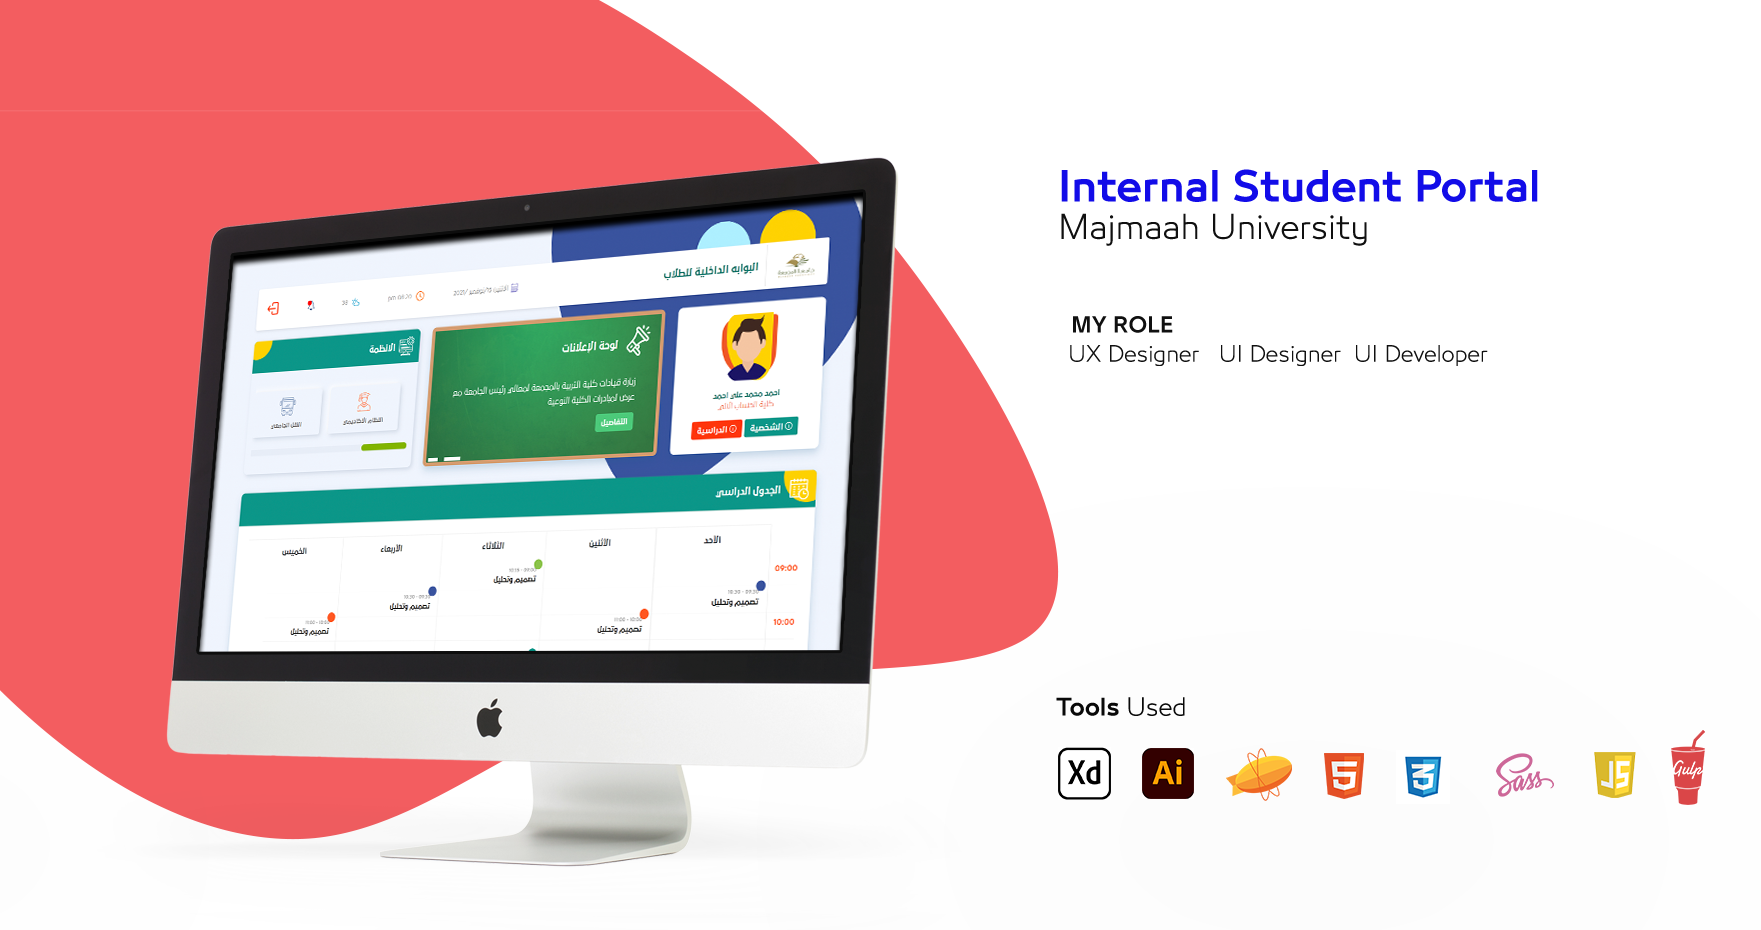
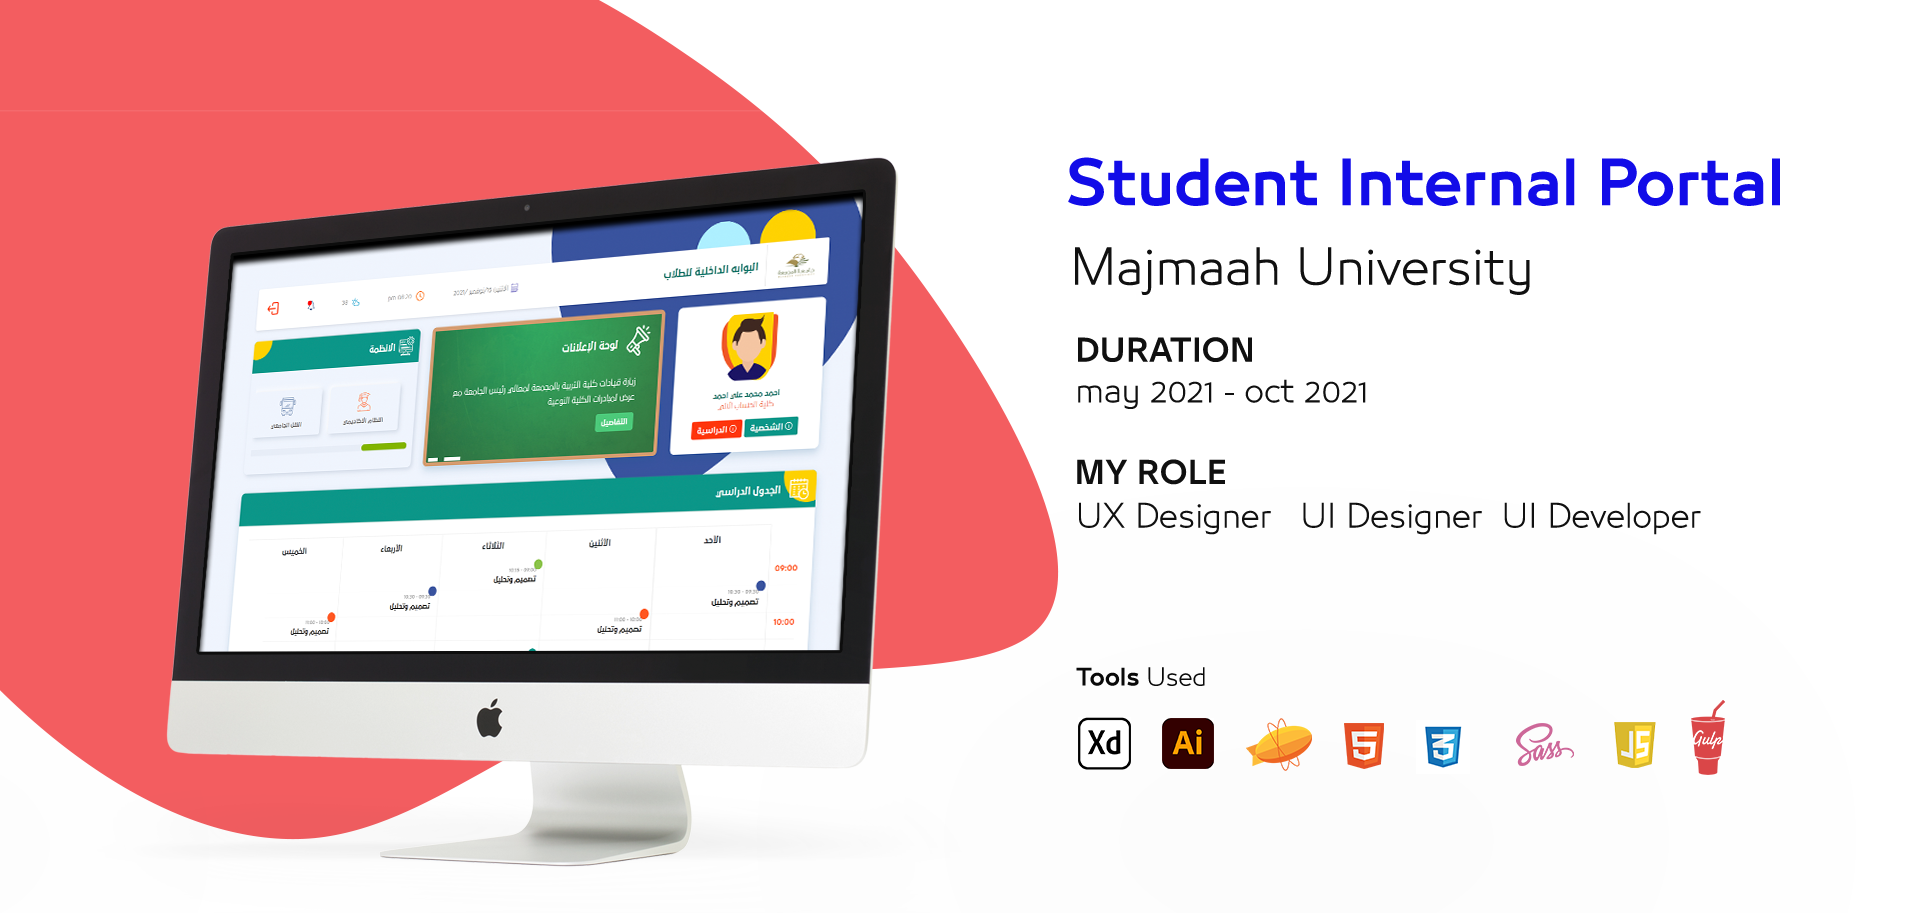
LOADER

Changed region(s): [[0.0312, 0.0, 0.937, 0.9507], [0.5622, 0.736, 0.9682, 0.8587], [0.0, 0.736, 0.0312, 0.7974]]

diff --git a/pages/CaseStudy.js b/pages/CaseStudy.js
@@ -1,6 +1,8 @@
 import Head from 'next/head'
+import Link from "next/link"
 import Image from 'next/image'
 import case1 from '../public/images/case1.png'
+import Loader from '../components/Loader';
 const CaseStudy = () => {
     return(
 
@@ -13,16 +15,33 @@ const CaseStudy = () => {
                 <meta name="description" content="UI/UX Design developer front-end developer" />
                 <link rel="icon" href="../public/favicon.ico" />
         </Head>
-
+        <Loader/>
         <div className="container">
 
         <div className="page__container project">
 
             <div className="mainpagetitle"  data-aos="fade-in" data-aos-duration="500">
-            Majmaah  Student Internal Portal
+              Student Internal Portal
             </div>
-          <div className="casestudyContainer">
-          <Image  alt="MyImage"  src={case1}/>
+          <div className="casestudyContainer" data-aos="fade-up" data-aos-duration="2000">
+          <Image  alt="MyImage"  src={case1} />
+        
+              <h3 className="fw-bold">My Role</h3>
+
+                <p>
+                I was the   UX Designer   UI Designer  UI Developer  in a team of 6 and we completed this project over the course of 10 weeks.  I was in  competitives benchmarking analysis and user research. I was also responsible for coming up with ideas for re-designing the layout, information architecture , and for improving the overall user experience using sketching, wireframing and Prototyping.
+
+                Moreover, I was involved with the development team, as we used HTML and Javascript to build portal .
+
+                Working closely with analysist ,developers and QA testers ensuring that the product is developed according to experience and design specifications.
+                </p>
+
+
+
+          <Link href="http://omarmokhtar.com/SU/index.html">
+              <a className="btn d-inline-block">Details</a>
+        </Link>
+
           </div>
          
             </div>

diff --git a/pages/Projects.js b/pages/Projects.js
@@ -7,8 +7,9 @@ import Head from 'next/head'
 import axios from 'axios'
 import Link from "next/link"
 import CaseStudy from './CaseStudy';
-
-
+import Image from 'next/image'
+import casstudymain from '../public/images/casstudymain.png'
+import Loader from '../components/Loader';
 class Projects extends Component{
 
   state ={
@@ -29,7 +30,9 @@ class Projects extends Component{
       return(
             <div class="col-4 col-lg-4 " data-aos="fade-up" data-aos-duration="3000"  key={ProjectsItem.key}>
             <div class="portfolio-item">
-                <div class="portfolio-img"><img class="img-fluid" src="http://omarmokhtar.com/assets/img/portfolio/students.jpg" /></div>
+                <div class="portfolio-img">
+                  <img class="img-fluid" src={ProjectsItem.image} />
+                  </div>
                 <div class="portfolio-text">
                 <div className="mycard__details--date">
                 {ProjectsItem.Issued}
@@ -62,6 +65,7 @@ class Projects extends Component{
                 <meta name="description" content="UI/UX Design developer front-end developer" />
                 <link rel="icon" href="../public/favicon.ico" />
       </Head>
+      <Loader/>
            <div className="container">
            
            <div className="page__container project">
@@ -84,7 +88,10 @@ I have some experiences that I was able to apply some of them in projects, and t
            <div className="col-12">
              <div className="caseStudy m-5 mx-0" data-aos="fade-right" data-aos-duration="2000">
                 <div className="caseStudy__img">
-                <img class="img-fluid" src="http://omarmokhtar.com/assets/img/portfolio/students.jpg" />
+               
+                <Image  class="img-fluid" alt="MyImage"  src={casstudymain} />
+        
+               
                 </div>             
              <div className="caseStudy__description">
 

diff --git a/pages/About.js b/pages/About.js
@@ -8,6 +8,7 @@ import { render } from 'react-dom';
 import axios from 'axios';
 import Certifications from '../components/Certifications';
 import Tools from '../components/Tools';
+import Loader from '../components/Loader';
 
 
 class About extends Component{
@@ -17,7 +18,7 @@ class About extends Component{
     Experience :[]
   }
   componentDidMount = () =>{
-    axios.get('https://api.npoint.io/902de4cb6e393d3d08fd').then( res => { this.setState ({Experience :res.data.Experience})})
+    axios.get('https://api.npoint.io/ba35b22a6f908f637bc8').then( res => { this.setState ({Experience :res.data.Experience})})
   
   }
 
@@ -52,6 +53,9 @@ class About extends Component{
              <title>Omar Mokhtar-About</title>
            </Head>
       
+           <Loader/>
+
+
            <div className="container">
        
            <div className="page__container">
@@ -62,7 +66,12 @@ class About extends Component{
 
          <div className="section__title">
            <div className="section__title--maintitle" data-aos="fade-right" data-aos-duration="1000">Experience</div>
-           <div className="btn section__title--btn" download data-aos="fade-left" data-aos-duration="1000">DOWNLOAD RESUME</div>
+           <div  data-aos="fade-left" data-aos-duration="1000">
+
+
+                <a href="https://omarmokhtar.com/myResume.pdf" target="_blank" className="btn section__title--btn"  download>DOWNLOAD RESUME</a>
+
+           </div>
          </div>
           { Experiencelist}
         

diff --git a/styles/globals.scss b/styles/globals.scss
@@ -335,3 +335,43 @@ main{
     background: #fff;
     box-shadow:  20px 20px 60px #d9d9d9, -20px -20px 60px #ffffff;
   }
+
+
+  .fadeoutt {
+    -moz-animation: cssAnimation 0s ease-in 1s forwards;
+    /*Firefox*/-webkit-animation: cssAnimation 0s ease-in 1s forwards;
+    /*SafariandChrome*/-o-animation: cssAnimation 0s ease-in 1s forwards;
+    /*Opera*/animation: cssAnimation 0s ease-in 1s forwards;
+    -webkit-animation-fill-mode: forwards;
+    animation-fill-mode: forwards;
+    -webkit-animation: cssAnimation 0s ease-in 1s forwards;
+
+    background: $mainColor;
+    position: absolute;
+    z-index: 9999999;
+    top: 0;
+    width: 100%;
+    height: 100%;
+    .loada{
+      width: 300px;
+          margin: 0 auto;
+          margin-top: 20px;
+    }
+}
+
+
+ 
+@keyframes cssAnimation {
+  to {
+      width:0;
+      height:0;
+      overflow:hidden;
+  }
+}
+@-webkit-keyframes cssAnimation {
+  to {
+      width:0;
+      height:0;
+      visibility:hidden;
+  }
+}

diff --git a/pages/index.js b/pages/index.js
@@ -4,6 +4,7 @@ import Image from 'next/image'
 import photo from '../public/images/omar.png'
 import { FaTwitter,FaBehance,FaGithub,FaEnvelope,FaLinkedin } from 'react-icons/fa';
 
+import Loader from '../components/Loader';
 export default function Home() {
   return (
     <main >
@@ -13,13 +14,8 @@ export default function Home() {
         <link rel="icon" href="/favicon.ico" />
       </Head>
      
-      <div class="loader">
-		<script src="https://unpkg.com/@lottiefiles/lottie-player@latest/dist/lottie-player.js">
-		</script> 
-         <lottie-player class="loada" src="https://assets9.lottiefiles.com/packages/lf20_EchaWV.json" background="transparent" speed="1"  loop="" autoplay=""></lottie-player>
-
-	</div>
-
+   
+      <Loader/>
 
           <div className="container">
 

diff --git a/components/Loader.js b/components/Loader.js
@@ -1,0 +1,20 @@
+
+
+const Loader = () => {
+    return(
+
+
+        
+        <div >
+     
+     <div class="loader fadeoutt">
+		<script src="https://unpkg.com/@lottiefiles/lottie-player@latest/dist/lottie-player.js">
+		</script> 
+         <lottie-player class="loada" src="https://assets9.lottiefiles.com/packages/lf20_EchaWV.json" background="transparent" speed="1"  loop="" autoplay=""></lottie-player>
+
+    	</div>
+        </div>
+
+    )
+}
+export default Loader

diff --git a/pages/ContactForm.js b/pages/ContactForm.js
@@ -1,6 +1,6 @@
 import emailjs from "emailjs-com";
 import Head from 'next/head'
-
+import Loader from '../components/Loader';
 export default function ContactUs() {
 
     function sendEmail(e) {
@@ -20,7 +20,7 @@ export default function ContactUs() {
              <Head>
              <title>Omar Mokhtar-Contact</title>
            </Head>
-
+           <Loader/>
            <div className="container">
            
            <div className="page__container">

diff --git a/components/Certifications.js b/components/Certifications.js
@@ -8,7 +8,7 @@ class Certifications extends Component{
         Certifications :[]
       }
       componentDidMount = () =>{
-        axios.get('https://api.npoint.io/902de4cb6e393d3d08fd').then( res => { this.setState ({Certifications :res.data.Certifications})})
+        axios.get('https://api.npoint.io/ba35b22a6f908f637bc8').then( res => { this.setState ({Certifications :res.data.Certifications})})
       
       }
     
